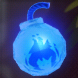
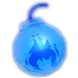
redesign assets

diff --git a/OpenGL_ES/games/Jewel/JewelView.cpp b/OpenGL_ES/games/Jewel/JewelView.cpp
@@ -13,13 +13,14 @@ GLushort *indices;
 enum VBO_IDs {vertex,index,numVBOs};
 enum Attr_IDs {a_postion,a_texCoord};
 enum Tex_IDs {s_popo,numTexs};
-const float coords_unit = GRID_SIZE/256.0;
+const float coords_unit_x = GRID_SIZE/468.0;
+const float coords_unit_y = GRID_SIZE/234.0;
 float tex_coords[NUM_TYPES][4][2] = { 
-		{ {0,0},{coords_unit,0},{0,coords_unit},{coords_unit,coords_unit} },
-		{ {coords_unit+0,0},{coords_unit+coords_unit,0},{coords_unit+0,coords_unit},{coords_unit+coords_unit,coords_unit} },
-		{ {2*coords_unit+0,0},{2*coords_unit+coords_unit,0},{2*coords_unit+0,coords_unit},{2*coords_unit+coords_unit,coords_unit} },
-		{ {0,coords_unit+0},{coords_unit,coords_unit+0},{0,coords_unit+coords_unit},{coords_unit,coords_unit+coords_unit} },
-		{ {0,2*coords_unit+0},{coords_unit,2*coords_unit+0},{0,2*coords_unit+coords_unit},{coords_unit,2*coords_unit+coords_unit} },
+		{ {coords_unit_x,0},{coords_unit_x+coords_unit_x,0},{coords_unit_x,coords_unit_y},{coords_unit_x+coords_unit_x,coords_unit_y} },//cyan
+		{ {2*coords_unit_x,0},{2*coords_unit_x+coords_unit_x,0},{2*coords_unit_x,coords_unit_y},{2*coords_unit_x+coords_unit_x,coords_unit_y} },//red
+		{ {3*coords_unit_x,0},{3*coords_unit_x+coords_unit_x,0},{3*coords_unit_x,coords_unit_y},{3*coords_unit_x+coords_unit_x,coords_unit_y} },//purple
+		{ {0,coords_unit_y+0},{coords_unit_x,coords_unit_y+0},{0,coords_unit_y+coords_unit_y},{coords_unit_x,coords_unit_y+coords_unit_y} },//yellow
+		{ {5*coords_unit_x+0,coords_unit_y+0},{5*coords_unit_x+coords_unit_x,coords_unit_y+0},{5*coords_unit_x+0,coords_unit_y+coords_unit_y},{5*coords_unit_x+coords_unit_x,coords_unit_y+coords_unit_y} },//yellow
 	};
 
 float *dragXs;
@@ -133,7 +134,7 @@ void initView()
 	glBindTexture(GL_TEXTURE_2D,textures[s_popo]);
 	
 	png_data_t png_data;
-	if(!png_read("./Data/Jewel.png",&png_data))
+	if(!png_read("./Data/Jewels.png",&png_data))
 	{
 		glTexImage2D(GL_TEXTURE_2D,0,
 					GL_RGBA,
@@ -172,9 +173,11 @@ void post()
 		float offsetY = *(offsetYs+i);
 		float dragX = *(dragXs+i);
 		float dragY = *(dragYs+i);
+		float paddingX = 2.0;
+		float paddingY = 2.0;
 		int type = *(jewels+i);
-		float ltx = col * GRID_SIZE + dragX;
-		float lty = row * GRID_SIZE + offsetY + dragY;
+		float ltx = col * GRID_SIZE + dragX+paddingX;
+		float lty = row * GRID_SIZE + offsetY + dragY + paddingY;
 		// printf("%d\n",i);
 		int r = log2((float)type);
 		// printf("r:%d,type:%d\n",r,type);

diff --git a/OpenGL_ES/games/Jewel/JewelView.h b/OpenGL_ES/games/Jewel/JewelView.h
@@ -3,7 +3,7 @@
 
 #define VIEW_W 640.0
 #define VIEW_H 640.0
-#define GRID_SIZE 80.0
+#define GRID_SIZE 78.0
 
 void initView();
 void render();
